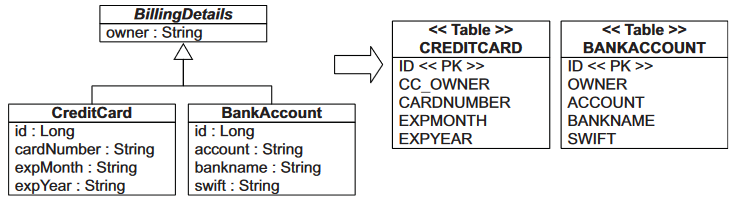
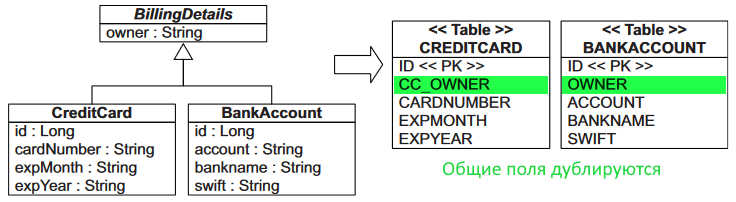
Правки по стратегиям мапинга наследования

Changed region(s): [[0.5312, 0.3564, 1.0, 0.4752], [0.5938, 0.802, 0.9062, 0.8911]]

diff --git a/langs/java/frameworks/spring data, hibernate, jpa/01 - Java Persistence API, Hibernate/02 - Сущность, генерация id, мапинг полей/09 - Мапинг и наследование/01 - Table per concrete class with implicit polymorphism.md b/langs/java/frameworks/spring data, hibernate, jpa/01 - Java Persistence API, Hibernate/02 - Сущность, генерация id, мапинг полей/09 - Мапинг и наследование/01 - Table per concrete class with implicit polymorphism.md
@@ -2,19 +2,23 @@
 
 Название оставлено оригинальное на английском, чтобы проще гуглить.
 
-## Модель
+"По таблице на потомка, с неявным полиморфизмом".
 
-Самый прямолинейный подход - это когда на каждый конкретный класс приходится одна таблица. У классов может быть какой-то родитель, содержащий общие поля, но этот родитель своей таблицы не имеет. Все "общие" поля как бы дублируются в таблицах БД:
+## Характеристика
+
+Самый прямолинейный подход - это когда на каждый конкретный класс приходится одна таблица. У классов может быть какой-то родитель, содержащий общие поля, но этот родитель своей таблицы не имеет. Все "общие" поля дублируются в таблицах БД:
 
 <img src="img/table-per-class.png" alt="image-20231109100835065" style="zoom:80%;" />
 
 Как это выглядит:
 
 * Сущностями являются только потомки. Они отмечаются аннотацией `@Entity`.
-* По умолчанию поля родителя не являются хранимыми. Чтобы хибер учитывал их в хранении, класс родителя помечается аннотацией `@MappedSuperclass`.
+* Суперклассы нужны только для обозначения общих полей. По умолчанию поля родителя не являются хранимыми. Чтобы хибер учитывал их в хранении, класс родителя помечается аннотацией `@MappedSuperclass`.
 * Если в таблицах, связанных с потомками, какие-то общие поля называются по-разному, можно это подправить через переопределение атрибутов, `@AttribureOverride`. Ограничения этой аннотации:
   * Можно переопределить только @Column, а более серьезные вещи, вроде @GeneratedValue - нельзя.
   * Работает только на классах, отмеченных как @MappedSuperclass или @Embeddable. В других стратегиях наследования уже может не работать.
+
+## Реализация
 
 ```java
 @MappedSuperclass  // <-- Чтобы поля родителя стали хранимыми
@@ -88,7 +92,7 @@ var query = em.createQuery("select cc from CreditCard cc", CreditCard.class);  /
 var query = em.createQuery("select ba from BankAccount ba", BankAccount.class);  // Ok
 ```
 
-В интернете решения тоже не нашлось. Где-то писалось, что это может работать, если Id находится в суперклассе, я попробовал - не помогло. Запросы на выборку подклассов работают нормально.
+В интернете решения тоже не нашлось. Где-то писали, что это может работать, если Id находится в суперклассе, я попробовал - не помогло. Запросы на выборку подклассов работают нормально.
 
 Хотя у меня запрос и не заработал, в книге написано что хибер генерирует вот такой код при запросе всех BillingDetails:
 

diff --git a/langs/java/frameworks/spring data, hibernate, jpa/01 - Java Persistence API, Hibernate/02 - Сущность, генерация id, мапинг полей/09 - Мапинг и наследование/02 - Table per concrete class with unions.md b/langs/java/frameworks/spring data, hibernate, jpa/01 - Java Persistence API, Hibernate/02 - Сущность, генерация id, мапинг полей/09 - Мапинг и наследование/02 - Table per concrete class with unions.md
@@ -1,6 +1,10 @@
 # Table per concrete class with unions
 
+"По таблице на потомка, с объединением".
+
 ## Характеристика
+
+<img src="img/table-per-class-with-unions.png" alt="table-per-class-with-unions" style="zoom:80%;" />
 
 У этого подхода особенность в том, что все BillingDetails (т.е. все и кредитные карты, и банковские аккаунты, и т.д.) вытягиваются *одним* запросом, который использует union. Поскольку запрос один, этот подход считается эффективнее чем "table-per-concrete-class с неявным полиморфизмом":
 
@@ -37,11 +41,11 @@ from
 
 * Базовый класс должен быть абстрактным и отмечен как `@Entity`. Абстрактность нужна, потому что у него все еще нет собственной таблицы в БД.
 
-* Идентификатор должен содержаться теперь в базовом классе, а не в потомках.
+* Идентификатор должен содержаться в базовом классе, а не в потомках.
 
 * Должна быть указана стратегия наследования `@Inheritance(strategy = InheritanceType.TABLE_PER_CLASS)`.
 
-* Общие поля в таблицах, содержащих данные потомков, должны теперь называться одинаково.
+* Общие поля в таблицах, содержащих данные потомков, должны называться одинаково.
 
   Если в предыдущем подходе с @MappedSuperclass мы могли переопределить название поля (например, owner на cc_owner), то теперь так не получится. Поле должно называться owner в обеих таблицах creditcard, bankaccount и быть замаплено в родительском классе под этим названием.
 
@@ -74,7 +78,7 @@ public abstract class BillingDetails {  // <-- Класс должен быть 
 @Getter @Setter
 public class BankAccount extends BillingDetails {
 
-	// <-- Больше не содержит id.
+    // <-- Больше не содержит id.
 
     @Column(name = "account")
     private String account;
@@ -95,7 +99,7 @@ public class BankAccount extends BillingDetails {
 @Getter @Setter
 public class CreditCard extends BillingDetails {
 
-	// <-- Больше не содержит id.
+    // <-- Больше не содержит id.
 
     @Column(name = "cardnumber")
     private String cardNumber;

diff --git a/langs/java/frameworks/spring data, hibernate, jpa/01 - Java Persistence API, Hibernate/02 - Сущность, генерация id, мапинг полей/09 - Мапинг и наследование/04 - Table per subclass with joins.md b/langs/java/frameworks/spring data, hibernate, jpa/01 - Java Persistence API, Hibernate/02 - Сущность, генерация id, мапинг полей/09 - Мапинг и наследование/04 - Table per subclass with joins.md
@@ -1,8 +1,10 @@
 # Table per subclass with joins
 
+"По таблице на все классы, с соединением".
+
 ## Характеристика
 
-<img src="img/image-20231110102634238.png" alt="image-20231110102634238" style="zoom:80%;" />
+<img src="img/table-per-subclass-with-joins.png" alt="image-20231110102634238" style="zoom:80%;" />
 
 Для этого подхода характерно:
 
